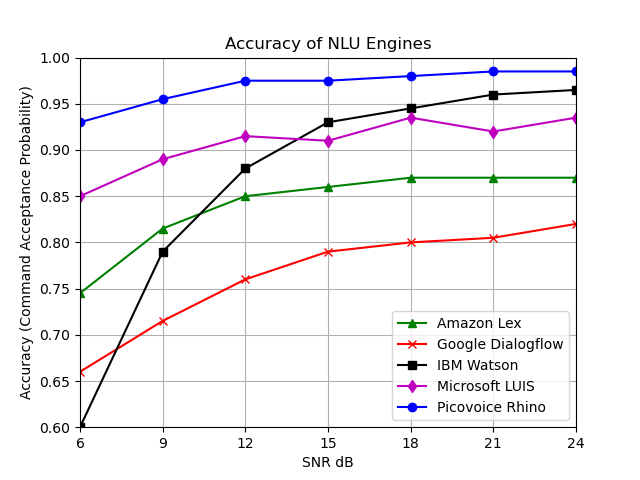
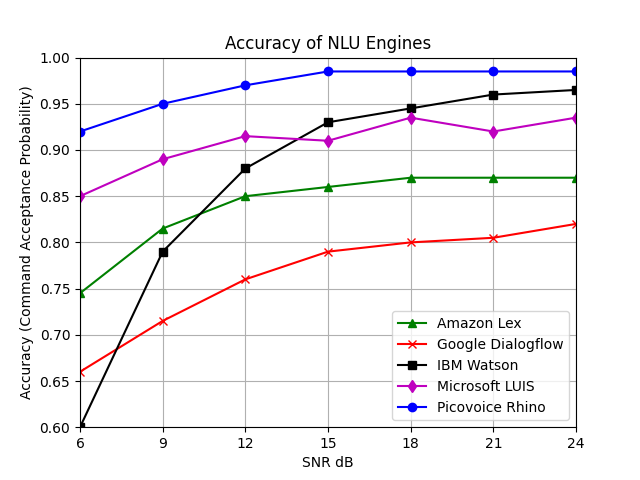
updated benchmark for v1.6

diff --git a/benchmark/engine.py b/benchmark/engine.py
@@ -468,7 +468,7 @@ class PicovoiceRhino(NLUEngine):
     def __init__(self):
         self._library_path = _path('rhino/lib/linux/x86_64/libpv_rhino.so')
         self._model_path = _path('rhino/lib/common/rhino_params.pv')
-        self._context_path = _path('rhino/resources/contexts/linux/coffee_maker_linux.rhn')
+        self._context_path = _path('data/rhino/coffee_maker_linux.rhn')
 
     def process_file(self, path):
         sys.path.append(_path('rhino/binding/python'))
@@ -477,7 +477,8 @@ class PicovoiceRhino(NLUEngine):
         rhino = Rhino(
             library_path=self._library_path,
             model_path=self._model_path,
-            context_path=self._context_path)
+            context_path=self._context_path,
+            sensitivity=.75)
 
         pcm, sample_rate = soundfile.read(path, dtype='int16')
         assert pcm.ndim == 1
@@ -493,9 +494,9 @@ class PicovoiceRhino(NLUEngine):
         if not is_finalized:
             result = None
         else:
-            if rhino.is_understood():
-                intent, slot_values = rhino.get_intent()
-                result = dict(intent=intent, slots=slot_values)
+            inference = rhino.get_inference()
+            if inference.is_understood:
+                result = dict(intent=inference.intent, slots=inference.slots)
             else:
                 result = None
 

diff --git a/benchmark/plot.py b/benchmark/plot.py
@@ -17,8 +17,8 @@ MICROSOFT_LUIS_CAFE = np.array([0.84, 0.88, 0.91, 0.91, 0.93, 0.91, 0.93])
 MICROSOFT_LUIS_KITCHEN = np.array([0.86, 0.90, 0.92, 0.91, 0.94, 0.93, 0.94])
 MICROSOFT_LUIS = (MICROSOFT_LUIS_CAFE + MICROSOFT_LUIS_KITCHEN) / 2.
 
-PICOVOICE_RHINO_CAFE = np.array([0.90, 0.94, 0.97, 0.97, 0.97, 0.98, 0.98])
-PICOVOICE_RHINO_KITCHEN = np.array([0.96, 0.97, 0.98, 0.98, 0.99, 0.99, 0.99])
+PICOVOICE_RHINO_CAFE = np.array([0.88, 0.94, 0.97, 0.98, 0.98, 0.98, 0.98])
+PICOVOICE_RHINO_KITCHEN = np.array([0.96, 0.96, 0.97, 0.99, 0.99, 0.99, 0.99])
 PICOVOICE_RHINO = (PICOVOICE_RHINO_CAFE + PICOVOICE_RHINO_KITCHEN) / 2.
 
 SNR_dB = [6, 9, 12, 15, 18, 21, 24]
